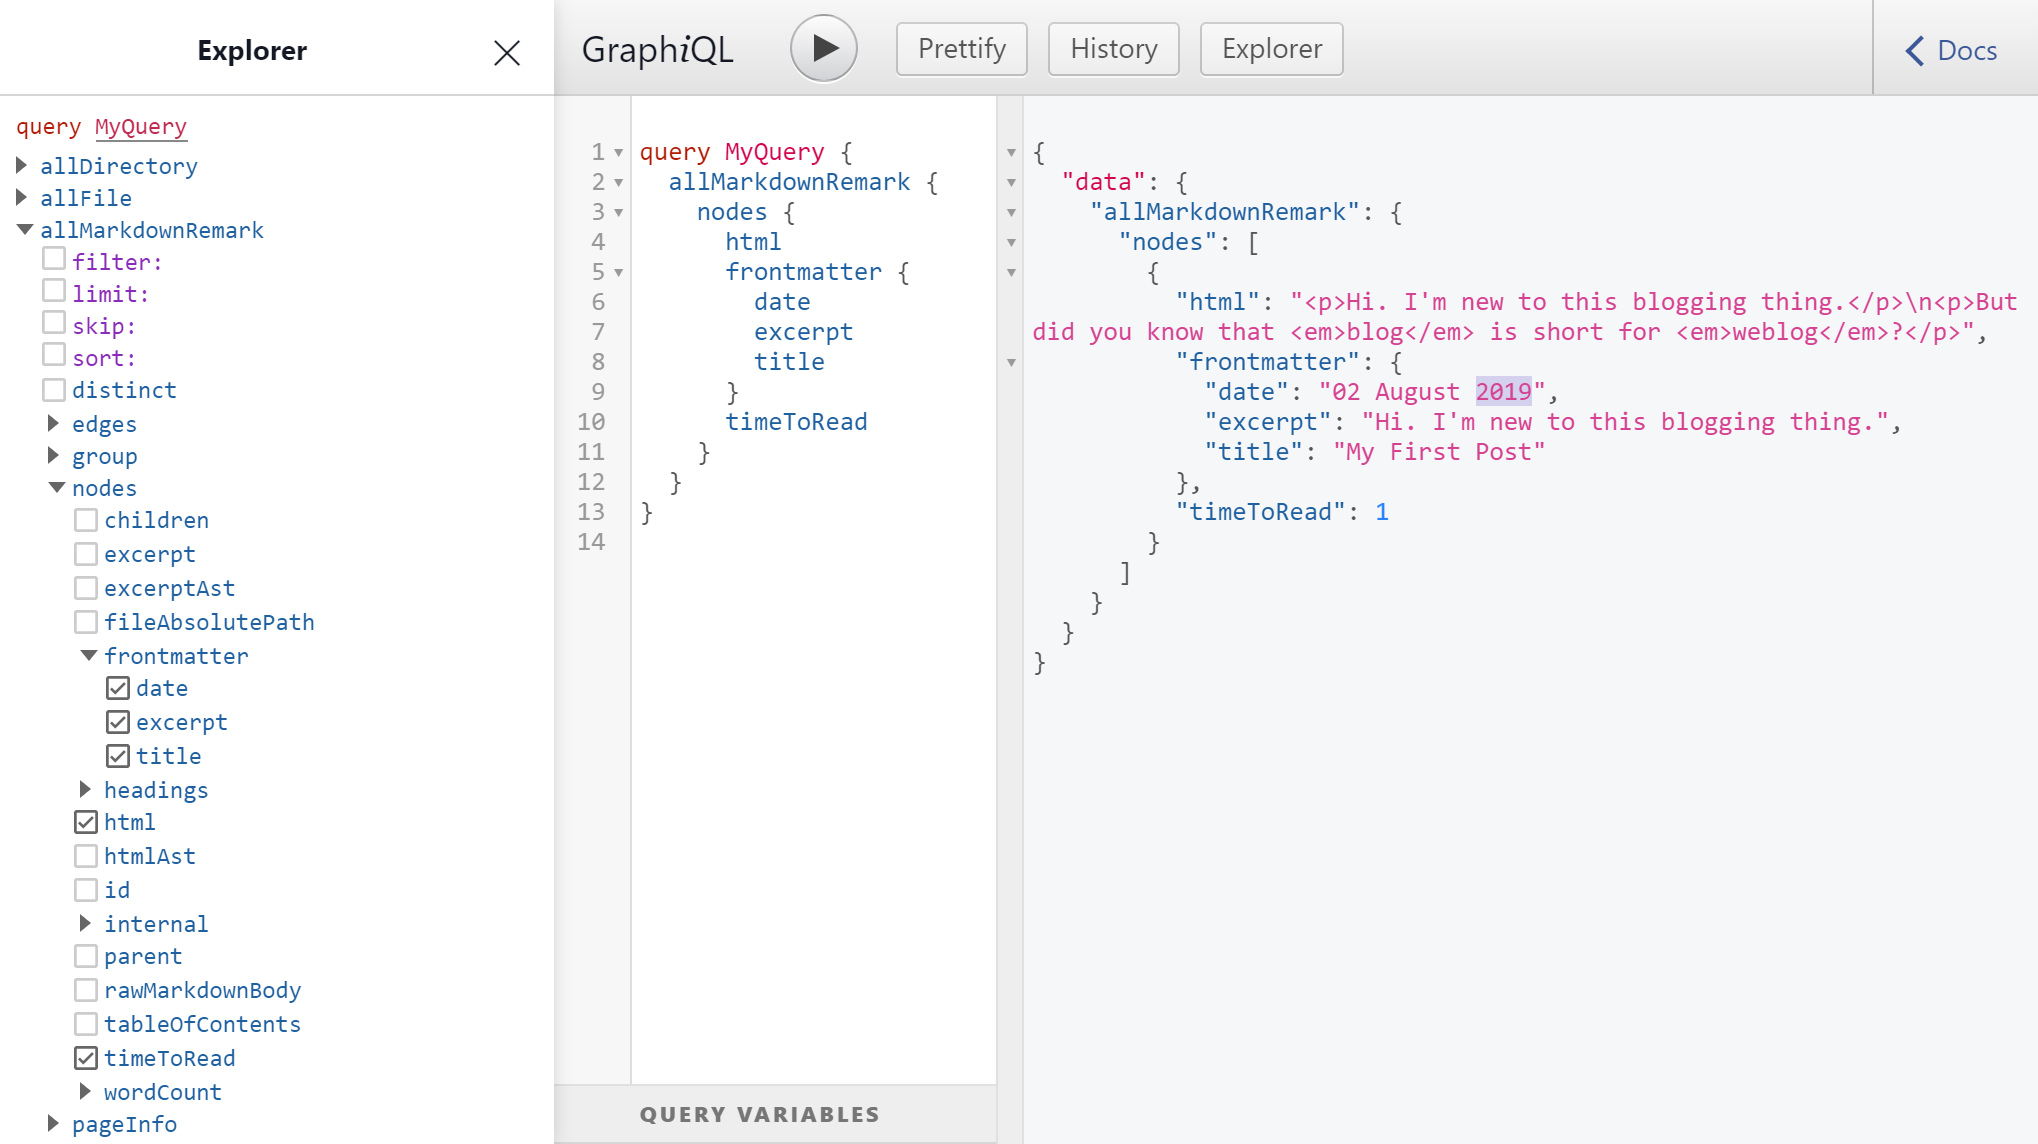
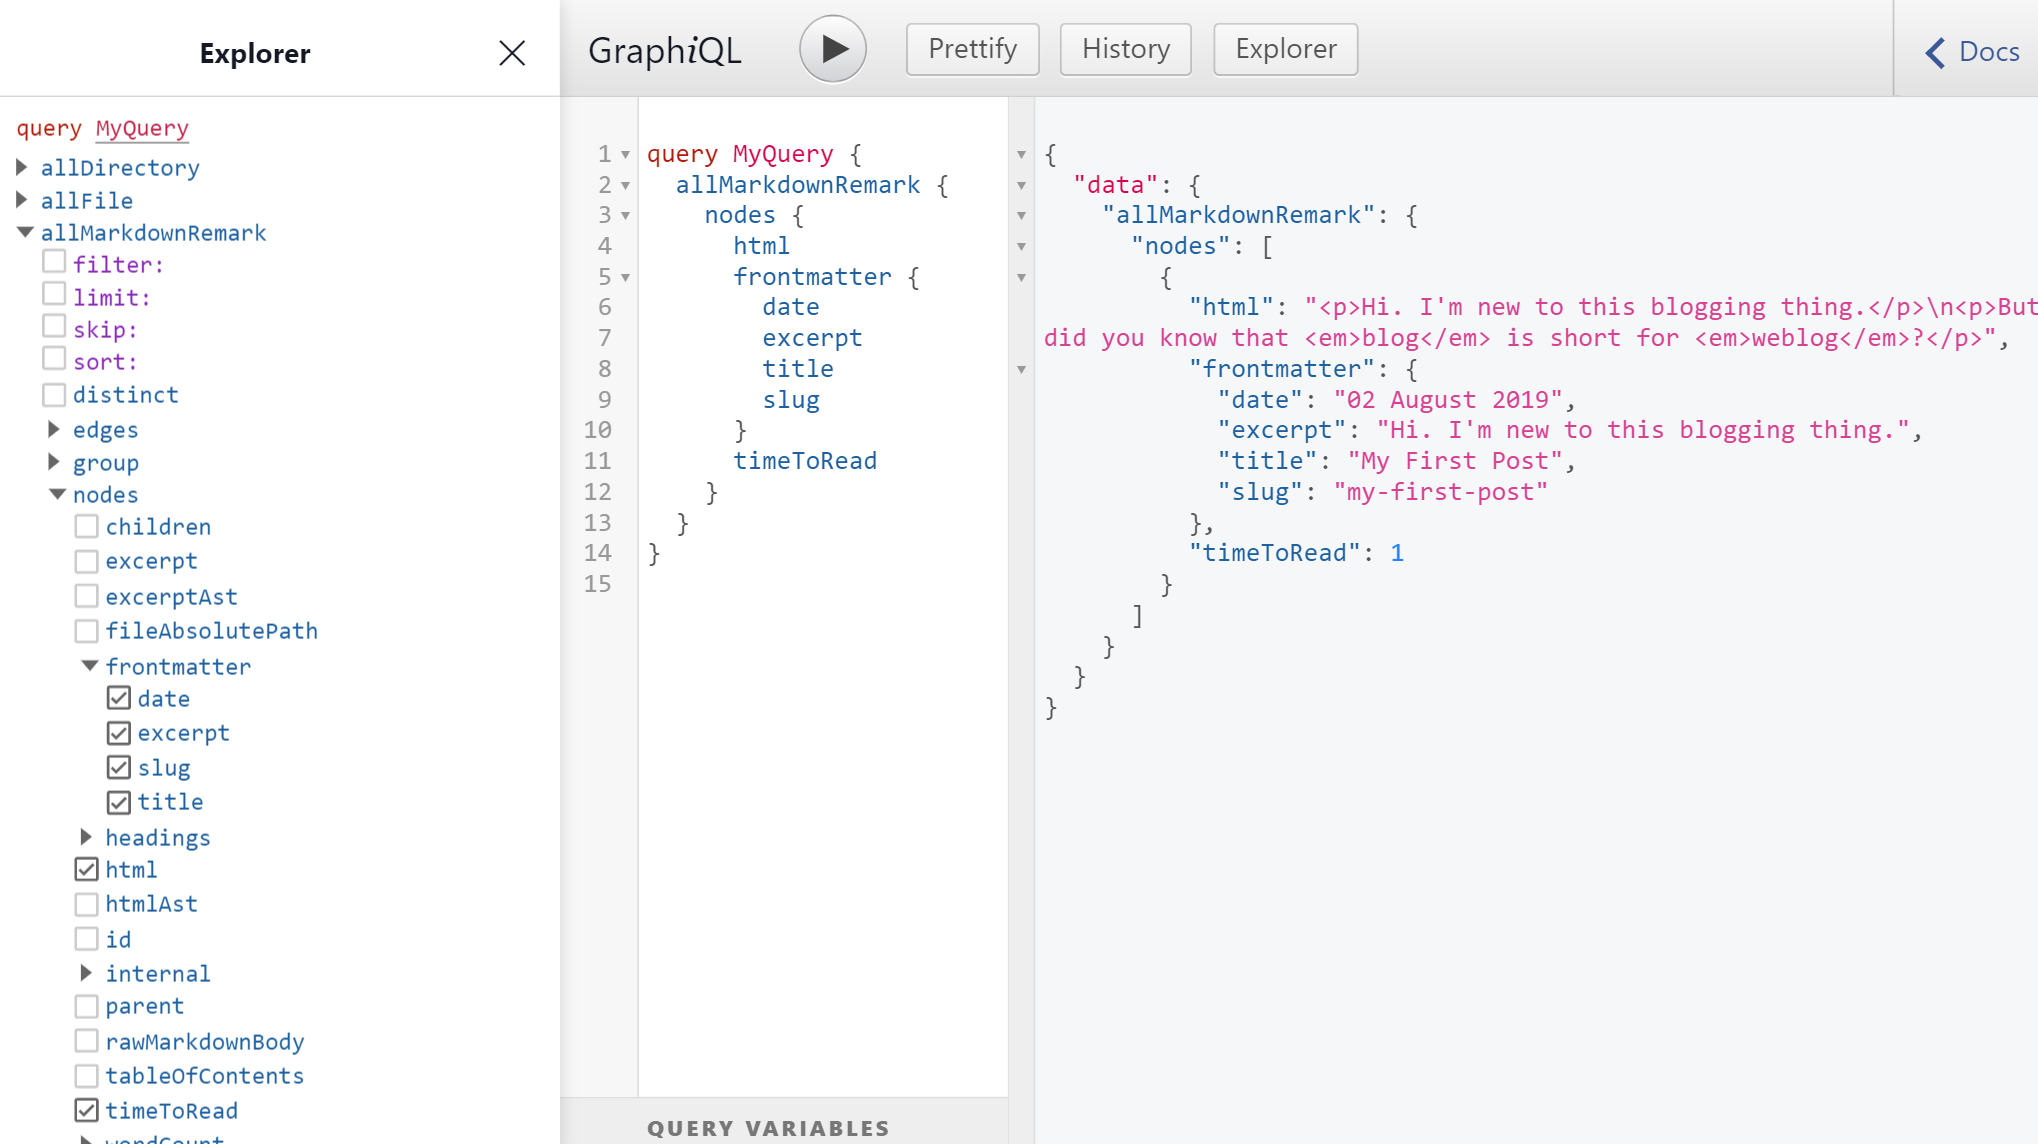
Guide on creating pages getting-started-with-gatsby-fast-and-slow

diff --git a/content/blog/getting-started-with-gatsby-fast-and-slow/index.md b/content/blog/getting-started-with-gatsby-fast-and-slow/index.md
@@ -128,6 +128,7 @@ Let's add a Markdown file in `content/blog` and name it `first-post.md`.
 ```md
 ---
 title: My First Post
+slug: my-first-post
 date: 02 August 2019
 excerpt: Hi. I'm new to this blogging thing.
 ---
@@ -185,12 +186,13 @@ I'm talking about not just the converted content to HTML, but also some other ni
 ```md
 ---
 title: My First Post
+slug: my-first-post
 date: 02 August 2019
 excerpt: Hi. I'm new to this blogging thing.
 ---
 ```
 
-This is called 'frontmatter', a section that contain useful metadata that describe that file. You can put arbitrary properties there to your liking. In this example, we added `title`, `date` and `excerpt` information, because I think we will need it when we create the page.
+This is called 'frontmatter', a section that contain useful metadata that describe that file. You can put arbitrary properties there to your liking. In this example, we added `title`, `slug`, `date` and `excerpt` information, because I think we will need it when we create the page.
 
 This frontmatter is already parsed and made available for query by `gatsby-transformer-remark`. It also adds other cool bits like `timeToRead`, an estimate on how long it will take to read the post, [Medium](https://medium.com/)-style. Here's a sample query, where we get selected properties of each of the Markdown files processed by the transformer using the `allMarkdownRemark` schema.
 
@@ -199,5 +201,124 @@ This frontmatter is already parsed and made available for query by `gatsby-trans
 At this point, you already have the data you need. It's just a matter of instructing Gatsby to create the pages.
 
 ## Creating pages using queried data
+
+Gatsby follows a specific sequence during its lifecycle. It offers lifecycle APIs so that you can hook your own operations into this sequence.
+
+On bootstrap and after sourcing and transformation of data, there is a part where Gatsby checks for an implementation of `createPages` in `gatsby-node.js`. If it finds one, it calls it. We'll use this hook to create our pages programmatically.
+
+Create a file called `gatsby-node.js` in the root of the project. Inside it, export a `createPages` function that accepts a destructured object containing `graphql` and `actions`. These two parameters are utilities passed on by Gatsby when it calls the `createPages` implementation.
+
+```js
+exports.createPages = ({ graphql, actions }) => {
+  // Do something
+}
+```
+
+Next, we have to query for all the posts using the `graphql` function passed by Gatsby. Let's get the `slug` property of each post, since we need something that will identify each one uniquely. `graphql` returns a [promise](https://developer.mozilla.org/en-US/docs/Web/JavaScript/Reference/Global_Objects/Promise) that, when fulfilled, passes along the result of the query. Let's log the it in the console.
+
+```js{19}
+exports.createPages = ({ graphql, actions }) => {
+  return graphql(`
+    query {
+      allMarkdownRemark {
+        edges {
+          node {
+            frontmatter {
+              slug
+            }
+          }
+        }
+      }
+    }
+  `).then(result => {
+    if (result.errors) {
+      throw result.errors
+    }
+
+    console.log(JSON.stringify(result, null, 2))
+  })
+}
+```
+
+When you execute `gatsby develop`, you should see the result logged:
+
+```json
+{
+  "data": {
+    "allMarkdownRemark": {
+      "edges": [
+        {
+          "node": {
+            "frontmatter": {
+              "slug": "my-first-post"
+            }
+          }
+        }
+      ]
+    }
+  }
+}
+```
+
+The `edges` array contains the individual posts. By iterating over the each `node` in this array through the `Array.map`, we can get the `slug` value and work on each post.
+
+```js{19-21}
+exports.createPages = ({ graphql, actions }) => {
+  return graphql(`
+    query {
+      allMarkdownRemark {
+        edges {
+          node {
+            frontmatter {
+              slug
+            }
+          }
+        }
+      }
+    }
+  `).then(result => {
+    if (result.errors) {
+      throw result.errors
+    }
+
+    result.data.allMarkdownRemark.edges.map(({ node }) => {
+      const slug = node.frontmatter.slug
+    })
+  })
+}
+```
+
+Now that we have all the `slug`, let's create a page for each post. This is done using one of the `actions` provided by Gatsby to our `createPages` function. The `actions` object is actually a collection of functions that we can use to change state on our site. The specific function we need is `createPage`. We can extract it by destructuring the object.
+
+```js{2}
+exports.createPages = ({ graphql, actions }) => {
+  const { createPage } = actions
+
+  return graphql(`
+    query {
+      allMarkdownRemark {
+        edges {
+          node {
+            frontmatter {
+              slug
+            }
+          }
+        }
+      }
+    }
+  `).then(result => {
+    if (result.errors) {
+      throw result.errors
+    }
+
+    result.data.allMarkdownRemark.edges.map(({ node }) => {
+      const slug = node.frontmatter.slug
+    })
+  })
+}
+```
+
+When calling `createPage`, you need to specify the path for the page, the component which will be used as page template and some context data for the page.
+
 
 ## Creating an index page for all pages
